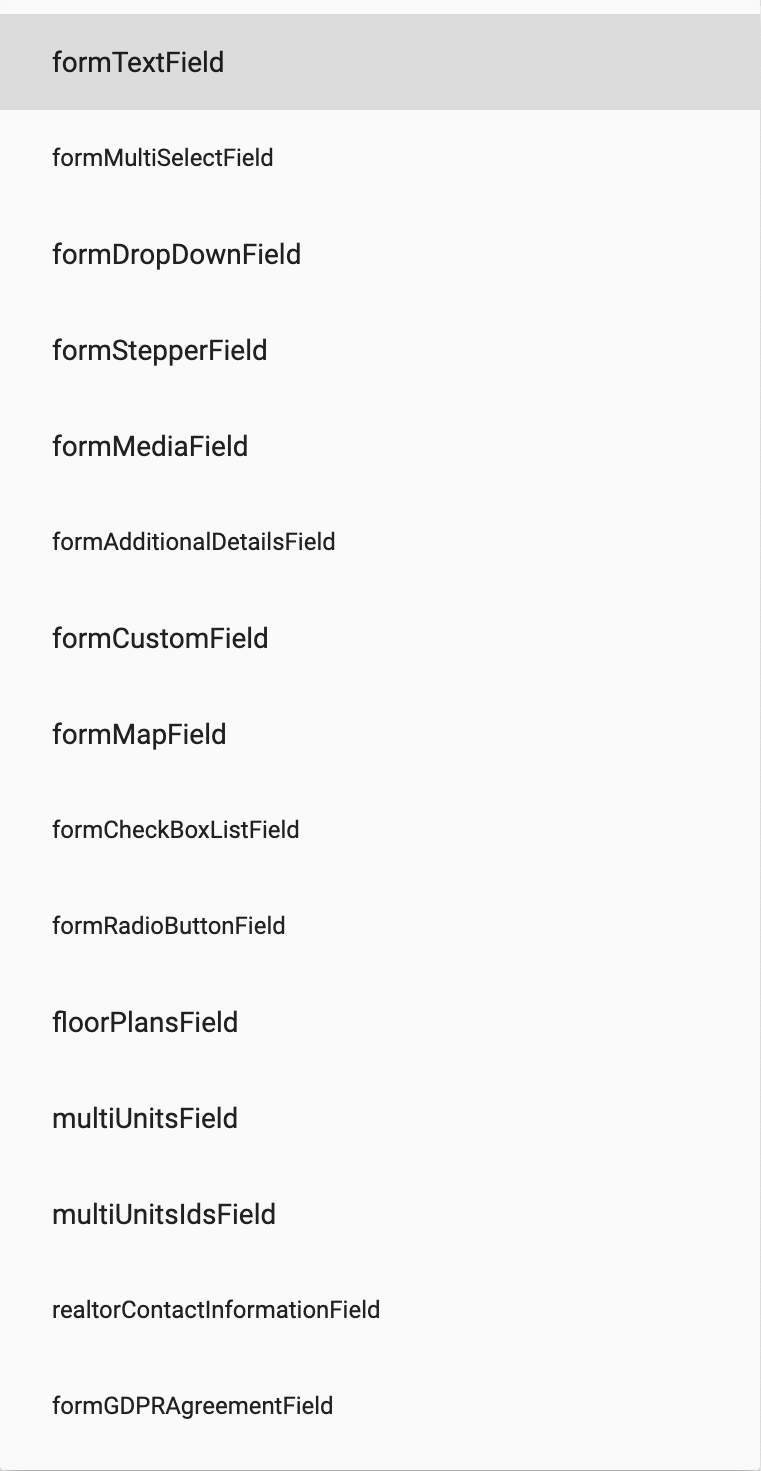
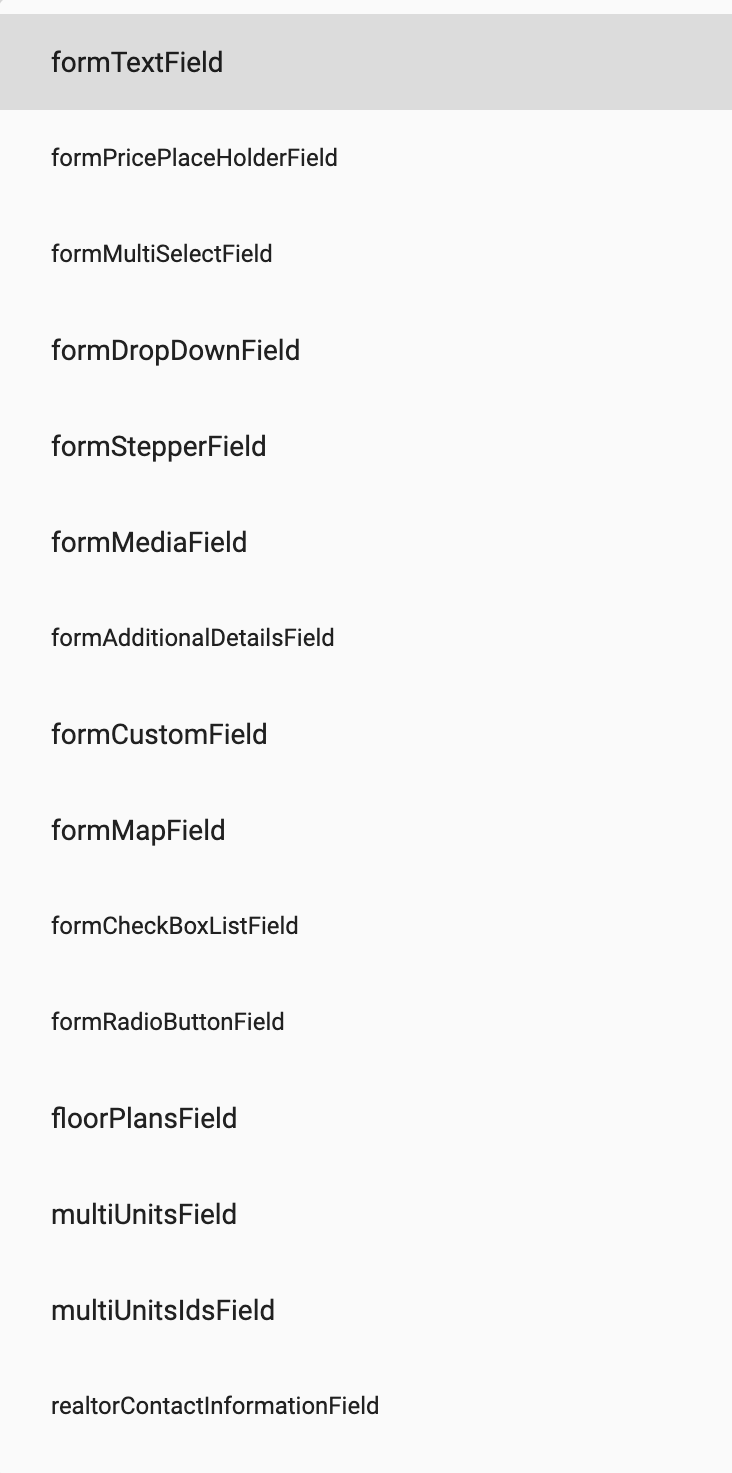
Updated Add Property Docuentation related to Price Placeholder.

diff --git a/_docs/houzi-builder/12_customize-add-property-form.md b/_docs/houzi-builder/12_customize-add-property-form.md
@@ -132,6 +132,11 @@ You can `Add` a new Field in Section by following these steps:
     * **formTextField:**   
         formTextField should be used, if you want to take **text** input from user. e.g. Property Title, Property Price etc. You can define some assisting attributes like *Hint, Additional Hint, Validation Types, Max Lines and Keyboard Type etc.*
 
+    * **formPricePlaceHolderField:**   
+        formPricePlaceHolderField should be used, if you want to take **Price Placeholder** text value from the user.
+
+        > **Note**: *formPricePlaceHolderField* is non-editable field (attributes like **Api Key** and **Title** are *fixed*.)
+
     * **formMultiSelectField:**  
         formMultiSelectField should be used, if you want to take *single/multiple* inputs of any *Houzez Taxonomies*, from the user. e.g. *Property Features (e.g. Garage, Pool etc.), Property Type (Commercail, Office etc.)* etc. You have to choose the **Term type** e.g. *property_type, property_status, property_feature* etc. from the *Term Type* dropdown. You can define some assisting attributes like *Hint, Additional Hint etc.*
 
